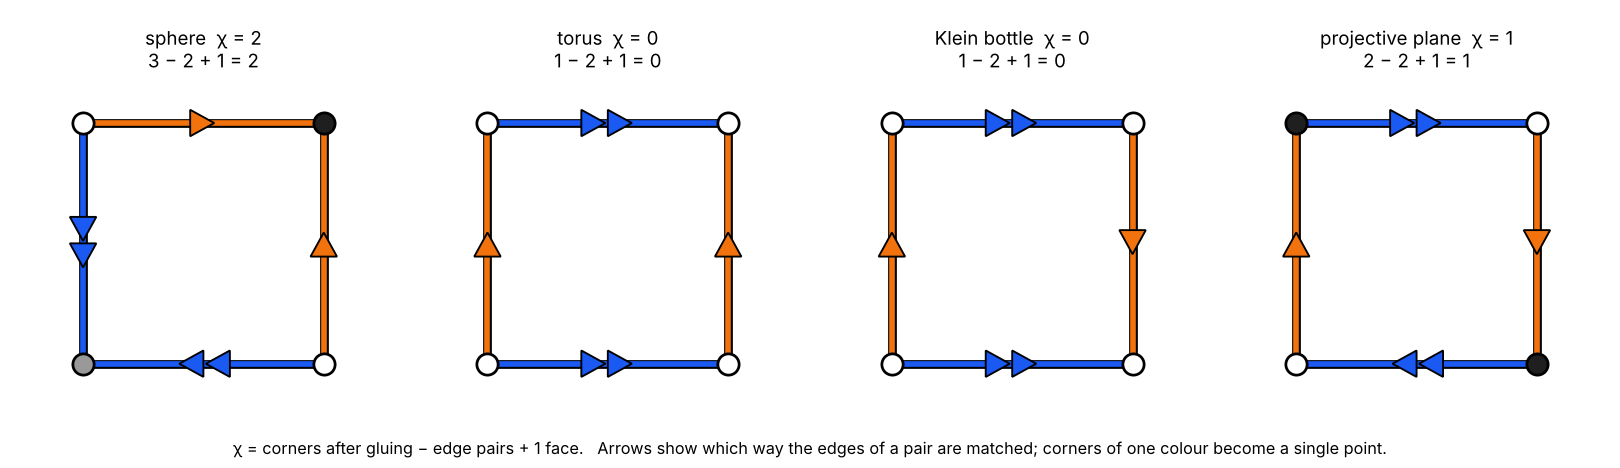
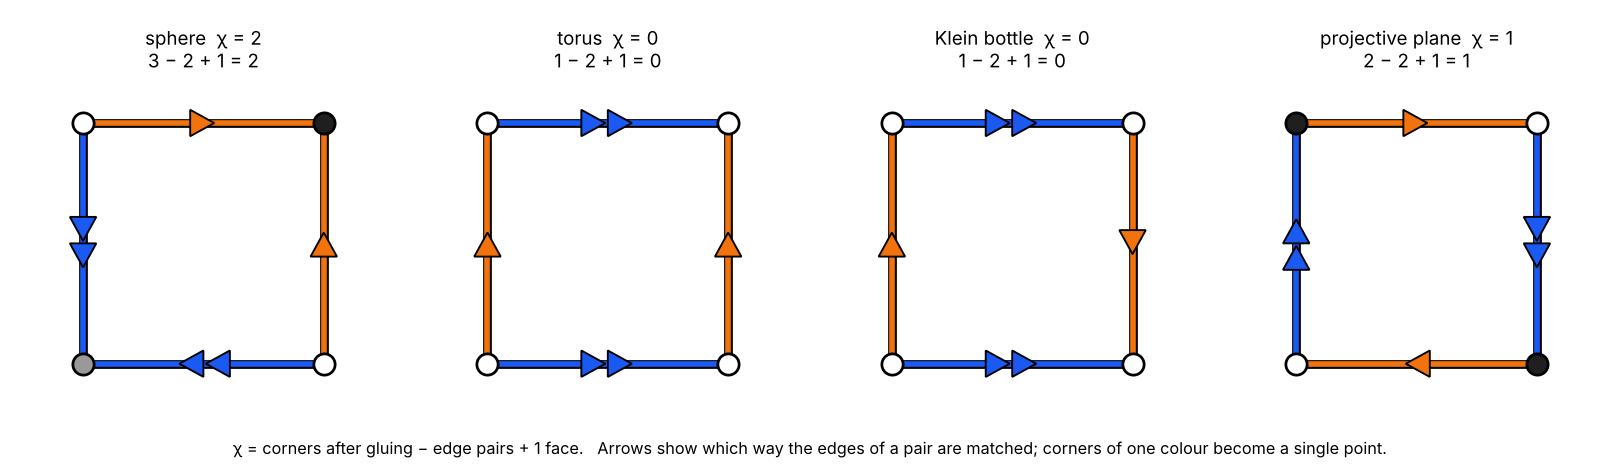
learning/surface-sequences: projective plane edge colours match the 14-stage sequence
Edge a (top/bottom) is now orange with single arrows and edge b (left/right) blue with double arrows,
as in projective-plane-sequence/ and the Boy's surface viewer. Regenerated gluing-diagrams.png.
Gluing checks unchanged.

Claude-Session: https://claude.ai/code/session_01GUcq1nUB8YU9i8rEdWBWiw

Changed region(s): [[0.8025, 0.2991, 0.9568, 0.8077], [0.7716, 0.2991, 0.8333, 0.7479], [0.8025, 0.2393, 0.9568, 0.2991]]

diff --git a/learning/surface-sequences/surface_sequences.py b/learning/surface-sequences/surface_sequences.py
@@ -486,7 +486,8 @@ class ProjectivePlane(Surface):
     name, title = "projective-plane", "projective plane (Boy's surface)"
     chi, gluing = 1, "both pairs flipped (a b a b)"
     alpha_min, fade_from, cam_end = 0.48, 0.5, (-58.0, 25.0)
-    edges: ClassVar = [(TOP, BLUE), (BOTTOM, BLUE), (LEFT, ORANGE), (RIGHT, ORANGE)]
+    # edge a (top/bottom) orange, edge b (left/right) blue: as in the 14-stage sequence and the viewer
+    edges: ClassVar = [(TOP, ORANGE), (BOTTOM, ORANGE), (LEFT, BLUE), (RIGHT, BLUE)]
     corner_classes: ClassVar = {
         "TR": "white",
         "BL": "white",
@@ -715,10 +716,10 @@ def overview(out):
             ("right", ORANGE, (1, 1), (1, -1), False),
         ],
         "projective-plane": [
-            ("top", BLUE, (-1, 1), (1, 1), True),
-            ("bottom", BLUE, (1, -1), (-1, -1), True),
-            ("left", ORANGE, (-1, -1), (-1, 1), False),
-            ("right", ORANGE, (1, 1), (1, -1), False),
+            ("top", ORANGE, (-1, 1), (1, 1), False),
+            ("bottom", ORANGE, (1, -1), (-1, -1), False),
+            ("left", BLUE, (-1, -1), (-1, 1), True),
+            ("right", BLUE, (1, 1), (1, -1), True),
         ],
     }
     names = {
